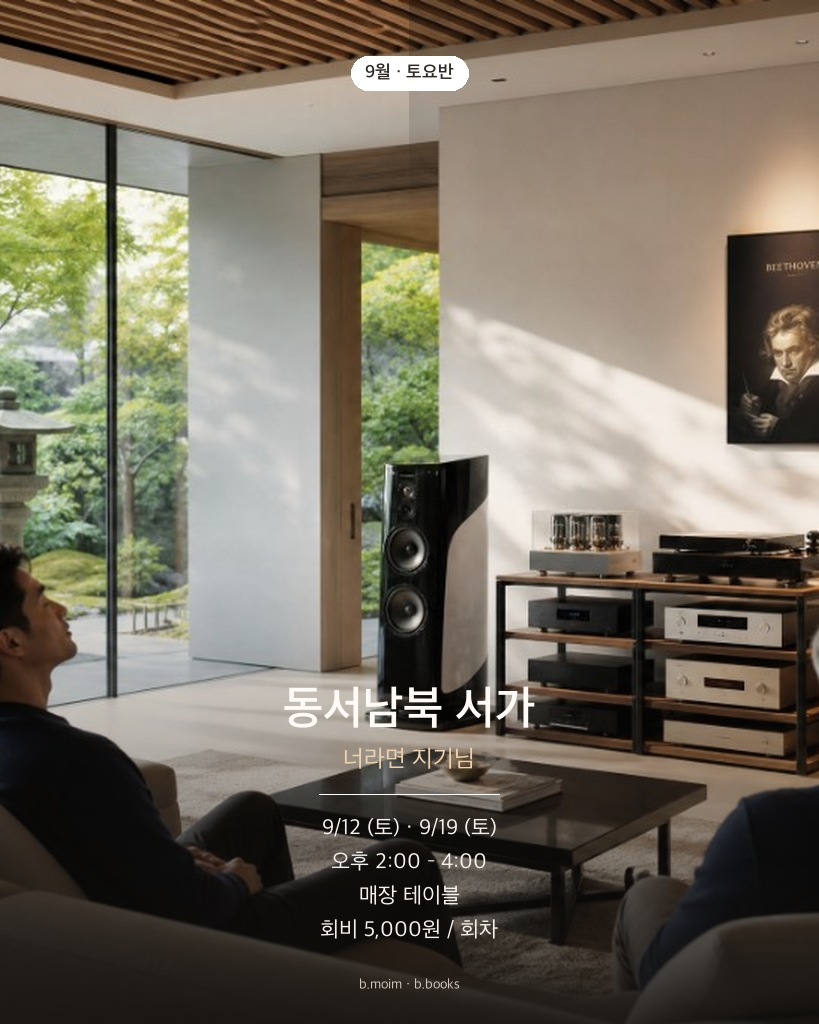
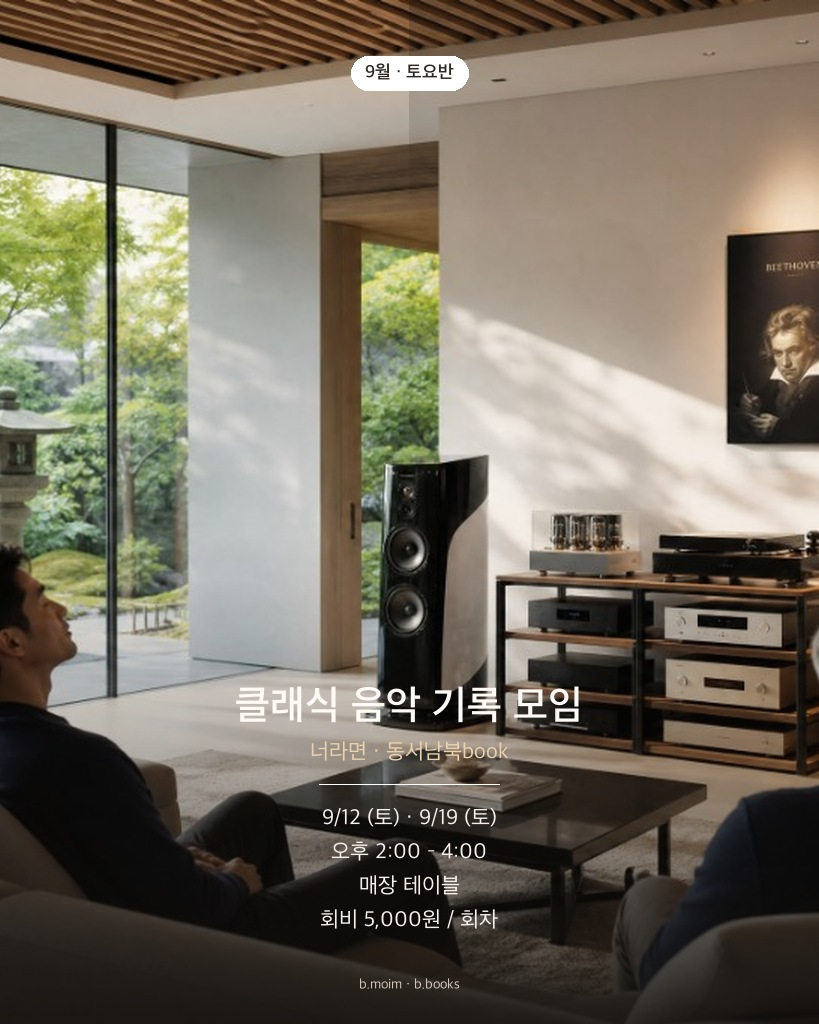
Rename September music meetup to 클래식 음악 기록 모임.
Update poster, cards, calendar labels, and rent blocks to match the new title.

Changed region(s): [[0.2747, 0.6562, 0.7021, 0.75], [0.3968, 0.7812, 0.6105, 0.9375]]

diff --git a/september.html b/september.html
@@ -2829,14 +2829,14 @@
       <div class="cal-cell" onclick="openRent('2026-09-09')"><div class="cal-day">9</div><div class="cal-rent-btn">[대관]</div></div>
       <div class="cal-cell" onclick="openRent('2026-09-10')"><div class="cal-day">10</div><div class="cal-rent-btn">[대관]</div></div>
       <div class="cal-cell" onclick="openRent('2026-09-11')"><div class="cal-day">11</div><div class="cal-event ev-moim" onclick="event.stopPropagation();scrollToMoim('sentcollectfri')" data-session="9월11일_문장수집금">문장수집가금 15-17</div><div class="cal-rent-btn">[대관]</div></div>
-      <div class="cal-cell sat" onclick="openRent('2026-09-12')"><div class="cal-day">12</div><div class="cal-event ev-moim" onclick="event.stopPropagation();scrollToMoim('sentcollectsat')" data-session="9월12일_문장수집토">문장수집가토 14-16</div><div class="cal-event ev-moim" onclick="event.stopPropagation();scrollToMoim('dongseosat')" data-session="9월12일_동서서가">동서서가 14-16</div><div class="cal-rent-btn">[대관]</div></div>
+      <div class="cal-cell sat" onclick="openRent('2026-09-12')"><div class="cal-day">12</div><div class="cal-event ev-moim" onclick="event.stopPropagation();scrollToMoim('sentcollectsat')" data-session="9월12일_문장수집토">문장수집가토 14-16</div><div class="cal-event ev-moim" onclick="event.stopPropagation();scrollToMoim('dongseosat')" data-session="9월12일_동서서가">클래식기록 14-16</div><div class="cal-rent-btn">[대관]</div></div>
       <div class="cal-cell sun" onclick="openRent('2026-09-13')"><div class="cal-day">13</div><div class="cal-rent-btn">[대관]</div></div>
       <div class="cal-cell" onclick="openRent('2026-09-14')"><div class="cal-day">14</div><div class="cal-rent-btn">[대관]</div></div>
       <div class="cal-cell" onclick="openRent('2026-09-15')"><div class="cal-day">15</div><div class="cal-rent-btn">[대관]</div></div>
       <div class="cal-cell" onclick="openRent('2026-09-16')"><div class="cal-day">16</div><div class="cal-rent-btn">[대관]</div></div>
       <div class="cal-cell" onclick="openRent('2026-09-17')"><div class="cal-day">17</div><div class="cal-rent-btn">[대관]</div></div>
       <div class="cal-cell" onclick="openRent('2026-09-18')"><div class="cal-day">18</div><div class="cal-event ev-moim" onclick="event.stopPropagation();scrollToMoim('sentcollectfri')" data-session="9월18일_문장수집금">문장수집가금 15-17</div><div class="cal-rent-btn">[대관]</div></div>
-      <div class="cal-cell sat" onclick="openRent('2026-09-19')"><div class="cal-day">19</div><div class="cal-event ev-moim" onclick="event.stopPropagation();scrollToMoim('storyaunt')">그림책이모 1030-12</div><div class="cal-event ev-moim" onclick="event.stopPropagation();scrollToMoim('sentcollectsat')" data-session="9월19일_문장수집토">문장수집가토 14-16</div><div class="cal-event ev-moim" onclick="event.stopPropagation();scrollToMoim('dongseosat')" data-session="9월19일_동서서가">동서서가 14-16</div><div class="cal-rent-btn">[대관]</div></div>
+      <div class="cal-cell sat" onclick="openRent('2026-09-19')"><div class="cal-day">19</div><div class="cal-event ev-moim" onclick="event.stopPropagation();scrollToMoim('storyaunt')">그림책이모 1030-12</div><div class="cal-event ev-moim" onclick="event.stopPropagation();scrollToMoim('sentcollectsat')" data-session="9월19일_문장수집토">문장수집가토 14-16</div><div class="cal-event ev-moim" onclick="event.stopPropagation();scrollToMoim('dongseosat')" data-session="9월19일_동서서가">클래식기록 14-16</div><div class="cal-rent-btn">[대관]</div></div>
       <div class="cal-cell sun" onclick="openRent('2026-09-20')"><div class="cal-day">20</div><div class="cal-rent-btn">[대관]</div></div>
       <div class="cal-cell" onclick="openRent('2026-09-21')"><div class="cal-day">21</div><div class="cal-rent-btn">[대관]</div></div>
       <div class="cal-cell" onclick="openRent('2026-09-22')"><div class="cal-day">22</div><div class="cal-rent-btn">[대관]</div></div>
@@ -2989,11 +2989,11 @@
     </div>
 
     <div class="moim-card" id="dongseosat">
-      <div class="moim-poster-img" onclick="openLightbox('images/dongseo_seoga_september.jpg','동서남북 서가 — 너라면 지기님 포스터')">
-        <img src="images/dongseo_seoga_september.jpg" alt="동서남북 서가 — 너라면 지기님 · 9/12·19(토) 14:00–16:00">
+      <div class="moim-poster-img" onclick="openLightbox('images/dongseo_seoga_september.jpg','클래식 음악 기록 모임 포스터')">
+        <img src="images/dongseo_seoga_september.jpg" alt="클래식 음악 기록 모임 — 너라면 · 9/12·19(토) 14:00–16:00">
       </div>
       <div class="moim-body">
-        <div class="moim-name">동서남북 서가 · 너라면 지기님</div>
+        <div class="moim-name">클래식 음악 기록 모임</div>
         <p class="moim-host-line">너라면 · 동서남북book</p>
         <div class="moim-desc">
           좋은 음악을 듣고, 기록하고, 함께 나눕니다.<br>
@@ -3018,7 +3018,7 @@
             <div class="moim-price">5,000원 <span style="font-size:12px;font-weight:500">/ 회차</span></div>
             <div class="moim-cap">재료 준비 없음 · 회차별 개별 신청</div>
           </div>
-          <button class="btn-apply" id="apply-dongseosat" onclick="openApply('동서남북 서가 · 너라면 지기님','dongseosat')">신청하기</button>
+          <button class="btn-apply" id="apply-dongseosat" onclick="openApply('클래식 음악 기록 모임','dongseosat')">신청하기</button>
         </div>
       </div>
     </div>
@@ -3420,7 +3420,7 @@ const MOIMS = {
     hasSession: false
   },
   dongseosat: {
-    name: '동서남북 서가 · 너라면 지기님',
+    name: '클래식 음악 기록 모임',
     sessions: [
       { label: '① 9/12(토) 14:00–16:00', value: '9월12일_동서서가', _endMs: new Date(2026, 8, 12, 16, 0, 0).getTime() },
       { label: '② 9/19(토) 14:00–16:00', value: '9월19일_동서서가', _endMs: new Date(2026, 8, 19, 16, 0, 0).getTime() }
@@ -4707,10 +4707,10 @@ const SCHEDULED_MOIM_BLOCKS = [
   { date: '2026-09-05', space: '세미나실', start: '14:00', end: '16:00', tag: '문장수집가들 토요반' },
   { date: '2026-09-11', space: '세미나실', start: '15:00', end: '17:00', tag: '문장수집가들 금요반' },
   { date: '2026-09-12', space: '세미나실', start: '14:00', end: '16:00', tag: '문장수집가들 토요반' },
-  { date: '2026-09-12', space: '매장 테이블', start: '14:00', end: '16:00', tag: '동서남북 서가' },
+  { date: '2026-09-12', space: '매장 테이블', start: '14:00', end: '16:00', tag: '클래식 음악 기록 모임' },
   { date: '2026-09-18', space: '세미나실', start: '15:00', end: '17:00', tag: '문장수집가들 금요반' },
   { date: '2026-09-19', space: '세미나실', start: '14:00', end: '16:00', tag: '문장수집가들 토요반' },
-  { date: '2026-09-19', space: '매장 테이블', start: '14:00', end: '16:00', tag: '동서남북 서가' },
+  { date: '2026-09-19', space: '매장 테이블', start: '14:00', end: '16:00', tag: '클래식 음악 기록 모임' },
   { date: '2026-09-19', space: '계단 좌석', start: '10:30', end: '12:00', tag: '그림책 읽어주는 이모' },
   { date: '2026-09-30', space: '세미나실', start: '11:00', end: '13:00', tag: '한 사람을 위한 편지' },
   { date: '2026-10-02', space: '세미나실', start: '15:00', end: '17:00', tag: '문장수집가들 금요반' },

diff --git a/august.html b/august.html
@@ -4686,9 +4686,9 @@ function initCalCarousel() {
     4: `<div class="cal-event ev-moim" onclick="event.stopPropagation();location.href='september.html#sentcollectfri'">문장수집가금 15-17</div>`,
     5: `<div class="cal-event ev-moim" onclick="event.stopPropagation();location.href='september.html#sentcollectsat'">문장수집가토 14-16</div>`,
     11: `<div class="cal-event ev-moim" onclick="event.stopPropagation();location.href='september.html#sentcollectfri'">문장수집가금 15-17</div>`,
-    12: `<div class="cal-event ev-moim" onclick="event.stopPropagation();location.href='september.html#sentcollectsat'">문장수집가토 14-16</div><div class="cal-event ev-moim" onclick="event.stopPropagation();location.href='september.html#dongseosat'">동서서가 14-16</div>`,
+    12: `<div class="cal-event ev-moim" onclick="event.stopPropagation();location.href='september.html#sentcollectsat'">문장수집가토 14-16</div><div class="cal-event ev-moim" onclick="event.stopPropagation();location.href='september.html#dongseosat'">클래식기록 14-16</div>`,
     18: `<div class="cal-event ev-moim" onclick="event.stopPropagation();location.href='september.html#sentcollectfri'">문장수집가금 15-17</div>`,
-    19: `<div class="cal-event ev-moim" onclick="event.stopPropagation();location.href='september.html#storyaunt'">그림책이모 1030-12</div><div class="cal-event ev-moim" onclick="event.stopPropagation();location.href='september.html#sentcollectsat'">문장수집가토 14-16</div><div class="cal-event ev-moim" onclick="event.stopPropagation();location.href='september.html#dongseosat'">동서서가 14-16</div>`,
+    19: `<div class="cal-event ev-moim" onclick="event.stopPropagation();location.href='september.html#storyaunt'">그림책이모 1030-12</div><div class="cal-event ev-moim" onclick="event.stopPropagation();location.href='september.html#sentcollectsat'">문장수집가토 14-16</div><div class="cal-event ev-moim" onclick="event.stopPropagation();location.href='september.html#dongseosat'">클래식기록 14-16</div>`,
     30: `<div class="cal-event ev-moim" onclick="event.stopPropagation();location.href='september.html#letter'">편지모임 11-13</div>`
   };
   const octEvents = {
@@ -5281,10 +5281,10 @@ const SCHEDULED_MOIM_BLOCKS = [
   { date: '2026-09-05', space: '세미나실', start: '14:00', end: '16:00', tag: '문장수집가들 토요반' },
   { date: '2026-09-11', space: '세미나실', start: '15:00', end: '17:00', tag: '문장수집가들 금요반' },
   { date: '2026-09-12', space: '세미나실', start: '14:00', end: '16:00', tag: '문장수집가들 토요반' },
-  { date: '2026-09-12', space: '매장 테이블', start: '14:00', end: '16:00', tag: '동서남북 서가' },
+  { date: '2026-09-12', space: '매장 테이블', start: '14:00', end: '16:00', tag: '클래식 음악 기록 모임' },
   { date: '2026-09-18', space: '세미나실', start: '15:00', end: '17:00', tag: '문장수집가들 금요반' },
   { date: '2026-09-19', space: '세미나실', start: '14:00', end: '16:00', tag: '문장수집가들 토요반' },
-  { date: '2026-09-19', space: '매장 테이블', start: '14:00', end: '16:00', tag: '동서남북 서가' },
+  { date: '2026-09-19', space: '매장 테이블', start: '14:00', end: '16:00', tag: '클래식 음악 기록 모임' },
   { date: '2026-09-30', space: '세미나실', start: '11:00', end: '13:00', tag: '한 사람을 위한 편지' },
   { date: '2026-10-02', space: '세미나실', start: '15:00', end: '17:00', tag: '문장수집가들 금요반' },
   { date: '2026-10-03', space: '세미나실', start: '14:00', end: '16:00', tag: '문장수집가들 토요반' }

diff --git a/apply/index.html b/apply/index.html
@@ -748,10 +748,10 @@
     { date: '2026-09-05', space: '세미나실', start: '14:00', end: '16:00', tag: '문장수집가들 토요반', kind: 'moim' },
     { date: '2026-09-11', space: '세미나실', start: '15:00', end: '17:00', tag: '문장수집가들 금요반', kind: 'moim' },
     { date: '2026-09-12', space: '세미나실', start: '14:00', end: '16:00', tag: '문장수집가들 토요반', kind: 'moim' },
-    { date: '2026-09-12', space: '매장 테이블', start: '14:00', end: '16:00', tag: '동서남북 서가', kind: 'moim' },
+    { date: '2026-09-12', space: '매장 테이블', start: '14:00', end: '16:00', tag: '클래식 음악 기록 모임', kind: 'moim' },
     { date: '2026-09-18', space: '세미나실', start: '15:00', end: '17:00', tag: '문장수집가들 금요반', kind: 'moim' },
     { date: '2026-09-19', space: '세미나실', start: '14:00', end: '16:00', tag: '문장수집가들 토요반', kind: 'moim' },
-    { date: '2026-09-19', space: '매장 테이블', start: '14:00', end: '16:00', tag: '동서남북 서가', kind: 'moim' },
+    { date: '2026-09-19', space: '매장 테이블', start: '14:00', end: '16:00', tag: '클래식 음악 기록 모임', kind: 'moim' },
     { date: '2026-09-19', space: '계단 좌석', start: '10:30', end: '12:00', tag: '그림책 읽어주는 이모', kind: 'moim' },
     { date: '2026-10-02', space: '세미나실', start: '15:00', end: '17:00', tag: '문장수집가들 금요반', kind: 'moim' },
     { date: '2026-10-03', space: '세미나실', start: '14:00', end: '16:00', tag: '문장수집가들 토요반', kind: 'moim' }
